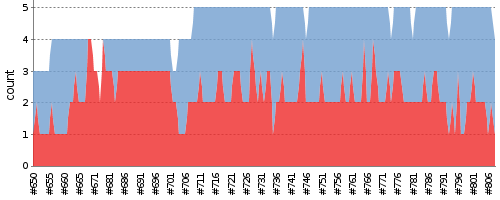
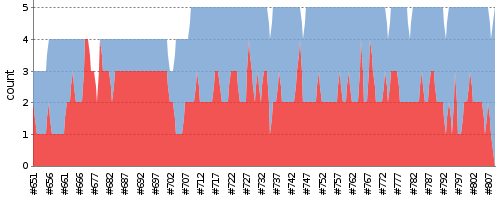
update report

diff --git a/index.md b/index.md
@@ -1,7 +1,7 @@
 ---
 layout: default
 ---
-Last update : 2016/01/20 05:59:07
+Last update : 2016/01/20 06:59:13
   
 ### Job Summary
 ___
@@ -95,11 +95,12 @@ ___
 ___
 #### Build Stability
 ![Jenkins Icon](http://jenkinshrg.github.io/images/48x48/health-00to19.png)
-0%
+1%
   
 #### Build History
 |Status|Time|Duration|<span class='badge'>ctest</span>|<span class='badge'>cppcheck</span>|Coverage|Changes|Logs|Note|
 |---|---|---|---|---|---|---|---|---|---|
+|![Jenkins Icon](http://jenkinshrg.github.io/images/24x24/blue.png)SUCCESS|2016/01/20 06:00|45 min.|0||||[CONSOLE](https://drive.google.com/file/d/0B54sHwaxmuM4bkpBWjRTM0Y3RzA/view?usp=drivesdk)<br>[IMAGE](https://drive.google.com/file/d/0B54sHwaxmuM4Z2ZPeDBCS3ktVFU/view?usp=drivesdk)<br>[VIDEO](https://drive.google.com/file/d/0B54sHwaxmuM4eUJld2tHc3NEdlE/view?usp=drivesdk)<br>[CONSOLE](https://drive.google.com/file/d/0B54sHwaxmuM4eVp2OWVFOTRNOEU/view?usp=drivesdk)<br>[IMAGE](https://drive.google.com/file/d/0B54sHwaxmuM4UlN5Z1ZHdDAtSzA/view?usp=drivesdk)<br>[VIDEO](https://drive.google.com/file/d/0B54sHwaxmuM4WFFoUWxMSUJCbG8/view?usp=drivesdk)<br>[CONSOLE](https://drive.google.com/file/d/0B54sHwaxmuM4dUdLbFpSa3p6bkE/view?usp=drivesdk)<br>[IMAGE](https://drive.google.com/file/d/0B54sHwaxmuM4ckxQT21FN0VUUnc/view?usp=drivesdk)<br>[VIDEO](https://drive.google.com/file/d/0B54sHwaxmuM4d3N0WkJET184dHM/view?usp=drivesdk)<br>[CONSOLE](https://drive.google.com/file/d/0B54sHwaxmuM4VTVhcEYyeTNXWUU/view?usp=drivesdk)<br>[IMAGE](https://drive.google.com/file/d/0B54sHwaxmuM4SjgzLXpySHh6XzQ/view?usp=drivesdk)<br>[VIDEO](https://drive.google.com/file/d/0B54sHwaxmuM4M0lwSU1kZDJENHc/view?usp=drivesdk)<br>[CONSOLE](https://drive.google.com/file/d/0B54sHwaxmuM4amF1dUNNLTZRbWM/view?usp=drivesdk)<br>[IMAGE](https://drive.google.com/file/d/0B54sHwaxmuM4dWhqTWRoSGNZcWM/view?usp=drivesdk)<br>[VIDEO](https://drive.google.com/file/d/0B54sHwaxmuM4eGRZNFd4dDdQN0U/view?usp=drivesdk)<br>||
 |![Jenkins Icon](http://jenkinshrg.github.io/images/24x24/red.png)FAILURE|2016/01/20 05:00|41 min.|1||||[CONSOLE](https://drive.google.com/file/d/0B54sHwaxmuM4c1czQktqb012aUU/view?usp=drivesdk)<br>[IMAGE](https://drive.google.com/file/d/0B54sHwaxmuM4RTdudFFJb1RaNjg/view?usp=drivesdk)<br>[VIDEO](https://drive.google.com/file/d/0B54sHwaxmuM4X3FaUGxqTk05c1E/view?usp=drivesdk)<br>[CONSOLE](https://drive.google.com/file/d/0B54sHwaxmuM4a01HLTBDSGxxdFE/view?usp=drivesdk)<br>[IMAGE](https://drive.google.com/file/d/0B54sHwaxmuM4SmNZOGptc1hpY00/view?usp=drivesdk)<br>[VIDEO](https://drive.google.com/file/d/0B54sHwaxmuM4OGkydzl5dElTcUU/view?usp=drivesdk)<br>[CONSOLE](https://drive.google.com/file/d/0B54sHwaxmuM4UnFvblEyRHBjN3M/view?usp=drivesdk)<br>[IMAGE](https://drive.google.com/file/d/0B54sHwaxmuM4V3A3OXhCZ3V0N1k/view?usp=drivesdk)<br>[VIDEO](https://drive.google.com/file/d/0B54sHwaxmuM4azd2bXVGaUYtV00/view?usp=drivesdk)<br>[CONSOLE](https://drive.google.com/file/d/0B54sHwaxmuM4OWhueV9GcjZmZ3M/view?usp=drivesdk)<br>[IMAGE](https://drive.google.com/file/d/0B54sHwaxmuM4Vl9XSUdoWmFTMms/view?usp=drivesdk)<br>[VIDEO](https://drive.google.com/file/d/0B54sHwaxmuM4UkFHNEJ3dGFDeHc/view?usp=drivesdk)<br>[CONSOLE](https://drive.google.com/file/d/0B54sHwaxmuM4X3JZaDl4RGNwU2c/view?usp=drivesdk)<br>||
 |![Jenkins Icon](http://jenkinshrg.github.io/images/24x24/yellow.png)UNSTABLE|2016/01/20 04:00|45 min.|2||||[CONSOLE](https://drive.google.com/file/d/0B54sHwaxmuM4cElJZU1ZWkxveGc/view?usp=drivesdk)<br>[IMAGE](https://drive.google.com/file/d/0B54sHwaxmuM4ZGhEYmt2SGVHM3c/view?usp=drivesdk)<br>[VIDEO](https://drive.google.com/file/d/0B54sHwaxmuM4RmZRRG9mVDlKeGc/view?usp=drivesdk)<br>[CONSOLE](https://drive.google.com/file/d/0B54sHwaxmuM4RGFVY1YtVGd3bUE/view?usp=drivesdk)<br>[IMAGE](https://drive.google.com/file/d/0B54sHwaxmuM4b0E3Z0t1MW9FWnM/view?usp=drivesdk)<br>[VIDEO](https://drive.google.com/file/d/0B54sHwaxmuM4aFdmMmcyUzBSQms/view?usp=drivesdk)<br>[CONSOLE](https://drive.google.com/file/d/0B54sHwaxmuM4YW1KU0FoTXRSSGc/view?usp=drivesdk)<br>[IMAGE](https://drive.google.com/file/d/0B54sHwaxmuM4UjN1eWd0RU5SZ0k/view?usp=drivesdk)<br>[VIDEO](https://drive.google.com/file/d/0B54sHwaxmuM4Mm5TWWc1bXRtRUU/view?usp=drivesdk)<br>[CONSOLE](https://drive.google.com/file/d/0B54sHwaxmuM4YVU3dHRqOTVRWm8/view?usp=drivesdk)<br>[IMAGE](https://drive.google.com/file/d/0B54sHwaxmuM4LXJIWHJULW9aSFE/view?usp=drivesdk)<br>[VIDEO](https://drive.google.com/file/d/0B54sHwaxmuM4OEkwWEJTZ0V0ZG8/view?usp=drivesdk)<br>[CONSOLE](https://drive.google.com/file/d/0B54sHwaxmuM4ckRZNHMwcTRiNzg/view?usp=drivesdk)<br>[IMAGE](https://drive.google.com/file/d/0B54sHwaxmuM4dUt4NUpGMDlfcDQ/view?usp=drivesdk)<br>[VIDEO](https://drive.google.com/file/d/0B54sHwaxmuM4WEtSVVNQZUFFeGM/view?usp=drivesdk)<br>||
 |![Jenkins Icon](http://jenkinshrg.github.io/images/24x24/yellow.png)UNSTABLE|2016/01/20 03:00|45 min.|1||||[CONSOLE](https://drive.google.com/file/d/0B54sHwaxmuM4TVl5Z0p3cUhZSmc/view?usp=drivesdk)<br>[IMAGE](https://drive.google.com/file/d/0B54sHwaxmuM4dENnQ3MxNlNuV0U/view?usp=drivesdk)<br>[VIDEO](https://drive.google.com/file/d/0B54sHwaxmuM4RnhQZW5KYjhWNWs/view?usp=drivesdk)<br>[CONSOLE](https://drive.google.com/file/d/0B54sHwaxmuM4X3VTbWlFVEVoYU0/view?usp=drivesdk)<br>[IMAGE](https://drive.google.com/file/d/0B54sHwaxmuM4SHhaQkRPT2hoWk0/view?usp=drivesdk)<br>[VIDEO](https://drive.google.com/file/d/0B54sHwaxmuM4Z2hnbzhZa1ZNUGc/view?usp=drivesdk)<br>[CONSOLE](https://drive.google.com/file/d/0B54sHwaxmuM4VEZ4TExISVgxanM/view?usp=drivesdk)<br>[IMAGE](https://drive.google.com/file/d/0B54sHwaxmuM4WTUxQ3ZOT0dSamc/view?usp=drivesdk)<br>[VIDEO](https://drive.google.com/file/d/0B54sHwaxmuM4dENmajhZSHBHWTQ/view?usp=drivesdk)<br>[CONSOLE](https://drive.google.com/file/d/0B54sHwaxmuM4cnJEbWlxTVBaQWM/view?usp=drivesdk)<br>[IMAGE](https://drive.google.com/file/d/0B54sHwaxmuM4YzBwdXNjRG81UTA/view?usp=drivesdk)<br>[VIDEO](https://drive.google.com/file/d/0B54sHwaxmuM4UE8xeGpqQndnOUk/view?usp=drivesdk)<br>[CONSOLE](https://drive.google.com/file/d/0B54sHwaxmuM4ZzAwUUVnZm14b00/view?usp=drivesdk)<br>[IMAGE](https://drive.google.com/file/d/0B54sHwaxmuM4N3pZYVVnMUFqRFU/view?usp=drivesdk)<br>[VIDEO](https://drive.google.com/file/d/0B54sHwaxmuM4NzUzYmdJVFB2UE0/view?usp=drivesdk)<br>||
@@ -199,4 +200,3 @@ ___
 |![Jenkins Icon](http://jenkinshrg.github.io/images/24x24/yellow.png)UNSTABLE|2016/01/15 19:32|70 min.|2|||[493a103](https://github.com/jrl-umi3218/hrpcnoid/commit/493a103)<br>|[BUILD](https://drive.google.com/file/d/0B54sHwaxmuM4azFYeEk1UzdhLWM/view?usp=drivesdk)<br>[CONSOLE](https://drive.google.com/file/d/0B54sHwaxmuM4d2RPWHJGVlZld0k/view?usp=drivesdk)<br>[IMAGE](https://drive.google.com/file/d/0B54sHwaxmuM4V3pHVEVEVDdRQ1E/view?usp=drivesdk)<br>[VIDEO](https://drive.google.com/file/d/0B54sHwaxmuM4THkxMkdPR19tSUU/view?usp=drivesdk)<br>[CONSOLE](https://drive.google.com/file/d/0B54sHwaxmuM4SGp4eFB1N29XWTA/view?usp=drivesdk)<br>[IMAGE](https://drive.google.com/file/d/0B54sHwaxmuM4UTkwR1VMM0FRNGs/view?usp=drivesdk)<br>[VIDEO](https://drive.google.com/file/d/0B54sHwaxmuM4UnF3bzZsQTBEeTQ/view?usp=drivesdk)<br>[CONSOLE](https://drive.google.com/file/d/0B54sHwaxmuM4VzRhU0t5dVdEQUU/view?usp=drivesdk)<br>[IMAGE](https://drive.google.com/file/d/0B54sHwaxmuM4WEUyR0Etdy1iYUk/view?usp=drivesdk)<br>[VIDEO](https://drive.google.com/file/d/0B54sHwaxmuM4M3I4RjhXZlQteWM/view?usp=drivesdk)<br>[CONSOLE](https://drive.google.com/file/d/0B54sHwaxmuM4WWpEbjdWSEpSZ2M/view?usp=drivesdk)<br>[IMAGE](https://drive.google.com/file/d/0B54sHwaxmuM4c2VJMjBjSVpqcE0/view?usp=drivesdk)<br>[VIDEO](https://drive.google.com/file/d/0B54sHwaxmuM4QTdxN3lVcHdjSTQ/view?usp=drivesdk)<br>[CONSOLE](https://drive.google.com/file/d/0B54sHwaxmuM4eFVwZ3pRYWRGdWc/view?usp=drivesdk)<br>[IMAGE](https://drive.google.com/file/d/0B54sHwaxmuM4Q2tPeDBwYzR6Sms/view?usp=drivesdk)<br>[VIDEO](https://drive.google.com/file/d/0B54sHwaxmuM4U2t2RU1lZGlqSEU/view?usp=drivesdk)<br>||
 |![Jenkins Icon](http://jenkinshrg.github.io/images/24x24/yellow.png)UNSTABLE|2016/01/15 18:22|69 min.|3|||[0006477](https://github.com/jrl-umi3218/hrpcnoid/commit/0006477)<br>|[BUILD](https://drive.google.com/file/d/0B54sHwaxmuM4MzdwTjZlWnlvN1k/view?usp=drivesdk)<br>[CONSOLE](https://drive.google.com/file/d/0B54sHwaxmuM4RUJ1YXBvc2g5Yjg/view?usp=drivesdk)<br>[IMAGE](https://drive.google.com/file/d/0B54sHwaxmuM4amd5bFJtU3JyYTg/view?usp=drivesdk)<br>[VIDEO](https://drive.google.com/file/d/0B54sHwaxmuM4QUNlb2xSRlFDMW8/view?usp=drivesdk)<br>[CONSOLE](https://drive.google.com/file/d/0B54sHwaxmuM4a2ZHOFQ3NmdOaUk/view?usp=drivesdk)<br>[IMAGE](https://drive.google.com/file/d/0B54sHwaxmuM4ZkVxT1JTcDVvZ0k/view?usp=drivesdk)<br>[VIDEO](https://drive.google.com/file/d/0B54sHwaxmuM4ek4weEJOY2VWaXc/view?usp=drivesdk)<br>[CONSOLE](https://drive.google.com/file/d/0B54sHwaxmuM4UFk0LTNFZGlxYjA/view?usp=drivesdk)<br>[IMAGE](https://drive.google.com/file/d/0B54sHwaxmuM4b0xHXzhZQjJxV3c/view?usp=drivesdk)<br>[VIDEO](https://drive.google.com/file/d/0B54sHwaxmuM4YnZsVGo5RU4wTUU/view?usp=drivesdk)<br>[CONSOLE](https://drive.google.com/file/d/0B54sHwaxmuM4eHBrME1zNThDNlU/view?usp=drivesdk)<br>[IMAGE](https://drive.google.com/file/d/0B54sHwaxmuM4V2w2Q0tOV3NGMzg/view?usp=drivesdk)<br>[VIDEO](https://drive.google.com/file/d/0B54sHwaxmuM4V1N5dmZPSV93VVE/view?usp=drivesdk)<br>[CONSOLE](https://drive.google.com/file/d/0B54sHwaxmuM4MzlXUHNvWlE2TEU/view?usp=drivesdk)<br>[IMAGE](https://drive.google.com/file/d/0B54sHwaxmuM4ckFkM1BuVjkzNUk/view?usp=drivesdk)<br>[VIDEO](https://drive.google.com/file/d/0B54sHwaxmuM4V3lKb1M5Zm41UE0/view?usp=drivesdk)<br>||
 |![Jenkins Icon](http://jenkinshrg.github.io/images/24x24/yellow.png)UNSTABLE|2016/01/15 17:11|71 min.|2|||[3f83c88](https://github.com/jrl-umi3218/hrpcnoid/commit/3f83c88)<br>[b05ad32](https://github.com/fkanehiro/hrpsys-base/commit/b05ad32)<br>[5672e68](https://github.com/fkanehiro/hrpsys-base/commit/5672e68)<br>[210d254](https://github.com/fkanehiro/hrpsys-base/commit/210d254)<br>[ee9995d](https://github.com/fkanehiro/hrpsys-base/commit/ee9995d)<br>[2e3ab6e](https://github.com/fkanehiro/hrpsys-base/commit/2e3ab6e)<br>|[BUILD](https://drive.google.com/file/d/0B54sHwaxmuM4QkkzaXRCYmpxRTA/view?usp=drivesdk)<br>[CONSOLE](https://drive.google.com/file/d/0B54sHwaxmuM4Z0c4Y3E2ak9FLW8/view?usp=drivesdk)<br>[IMAGE](https://drive.google.com/file/d/0B54sHwaxmuM4cl9aOUYtVFVCRkk/view?usp=drivesdk)<br>[VIDEO](https://drive.google.com/file/d/0B54sHwaxmuM4ZlRKMXV4MTN6aVE/view?usp=drivesdk)<br>[CONSOLE](https://drive.google.com/file/d/0B54sHwaxmuM4VFlsVXJ6eDBLZ28/view?usp=drivesdk)<br>[IMAGE](https://drive.google.com/file/d/0B54sHwaxmuM4X2tfYlRndW9GUTg/view?usp=drivesdk)<br>[VIDEO](https://drive.google.com/file/d/0B54sHwaxmuM4UGlLaGthbndsY2s/view?usp=drivesdk)<br>[CONSOLE](https://drive.google.com/file/d/0B54sHwaxmuM4V2ZpZGxyaHc3SDg/view?usp=drivesdk)<br>[IMAGE](https://drive.google.com/file/d/0B54sHwaxmuM4T2JLYTFpcVJ5ZHM/view?usp=drivesdk)<br>[VIDEO](https://drive.google.com/file/d/0B54sHwaxmuM4aWJLNXVQRy1sVEE/view?usp=drivesdk)<br>[CONSOLE](https://drive.google.com/file/d/0B54sHwaxmuM4ZXFvdVlqWFU3cmc/view?usp=drivesdk)<br>[IMAGE](https://drive.google.com/file/d/0B54sHwaxmuM4cHNNallIT21nWkE/view?usp=drivesdk)<br>[VIDEO](https://drive.google.com/file/d/0B54sHwaxmuM4bHkwWWdYOS1SVEk/view?usp=drivesdk)<br>[CONSOLE](https://drive.google.com/file/d/0B54sHwaxmuM4d3M2Ums5NHpIZ28/view?usp=drivesdk)<br>[IMAGE](https://drive.google.com/file/d/0B54sHwaxmuM4aHByZU5jNTVvUWs/view?usp=drivesdk)<br>[VIDEO](https://drive.google.com/file/d/0B54sHwaxmuM4U1NhS0JuR1JzREU/view?usp=drivesdk)<br>||
-|![Jenkins Icon](http://jenkinshrg.github.io/images/24x24/yellow.png)UNSTABLE|2016/01/15 16:00|70 min.|2||||[CONSOLE](https://drive.google.com/file/d/0B54sHwaxmuM4MkstUXZjclFmUkU/view?usp=drivesdk)<br>[IMAGE](https://drive.google.com/file/d/0B54sHwaxmuM4Z05mMVQ0SG1wdmM/view?usp=drivesdk)<br>[VIDEO](https://drive.google.com/file/d/0B54sHwaxmuM4NXV0RjJ0YzFKRFE/view?usp=drivesdk)<br>[CONSOLE](https://drive.google.com/file/d/0B54sHwaxmuM4RjJTRGZtQUYwbDQ/view?usp=drivesdk)<br>[IMAGE](https://drive.google.com/file/d/0B54sHwaxmuM4SDZ4YnRVd25lVms/view?usp=drivesdk)<br>[VIDEO](https://drive.google.com/file/d/0B54sHwaxmuM4MHZUMnRRWUtTYk0/view?usp=drivesdk)<br>[CONSOLE](https://drive.google.com/file/d/0B54sHwaxmuM4X2psOFVvM1dlMnc/view?usp=drivesdk)<br>[IMAGE](https://drive.google.com/file/d/0B54sHwaxmuM4V0VaMzdPZlVwWjg/view?usp=drivesdk)<br>[VIDEO](https://drive.google.com/file/d/0B54sHwaxmuM4U1NXam9TNXNsVWs/view?usp=drivesdk)<br>[CONSOLE](https://drive.google.com/file/d/0B54sHwaxmuM4NEpTa0xuTFd2elU/view?usp=drivesdk)<br>[IMAGE](https://drive.google.com/file/d/0B54sHwaxmuM4VEU0RlRuVVQxOUU/view?usp=drivesdk)<br>[VIDEO](https://drive.google.com/file/d/0B54sHwaxmuM4TjJGWDlpT3kwc2M/view?usp=drivesdk)<br>[CONSOLE](https://drive.google.com/file/d/0B54sHwaxmuM4bGNVN2lKUEdYRDQ/view?usp=drivesdk)<br>[IMAGE](https://drive.google.com/file/d/0B54sHwaxmuM4MnhZc0VDNzdWcjg/view?usp=drivesdk)<br>[VIDEO](https://drive.google.com/file/d/0B54sHwaxmuM4QjBDMGdid1d2V1E/view?usp=drivesdk)<br>||
